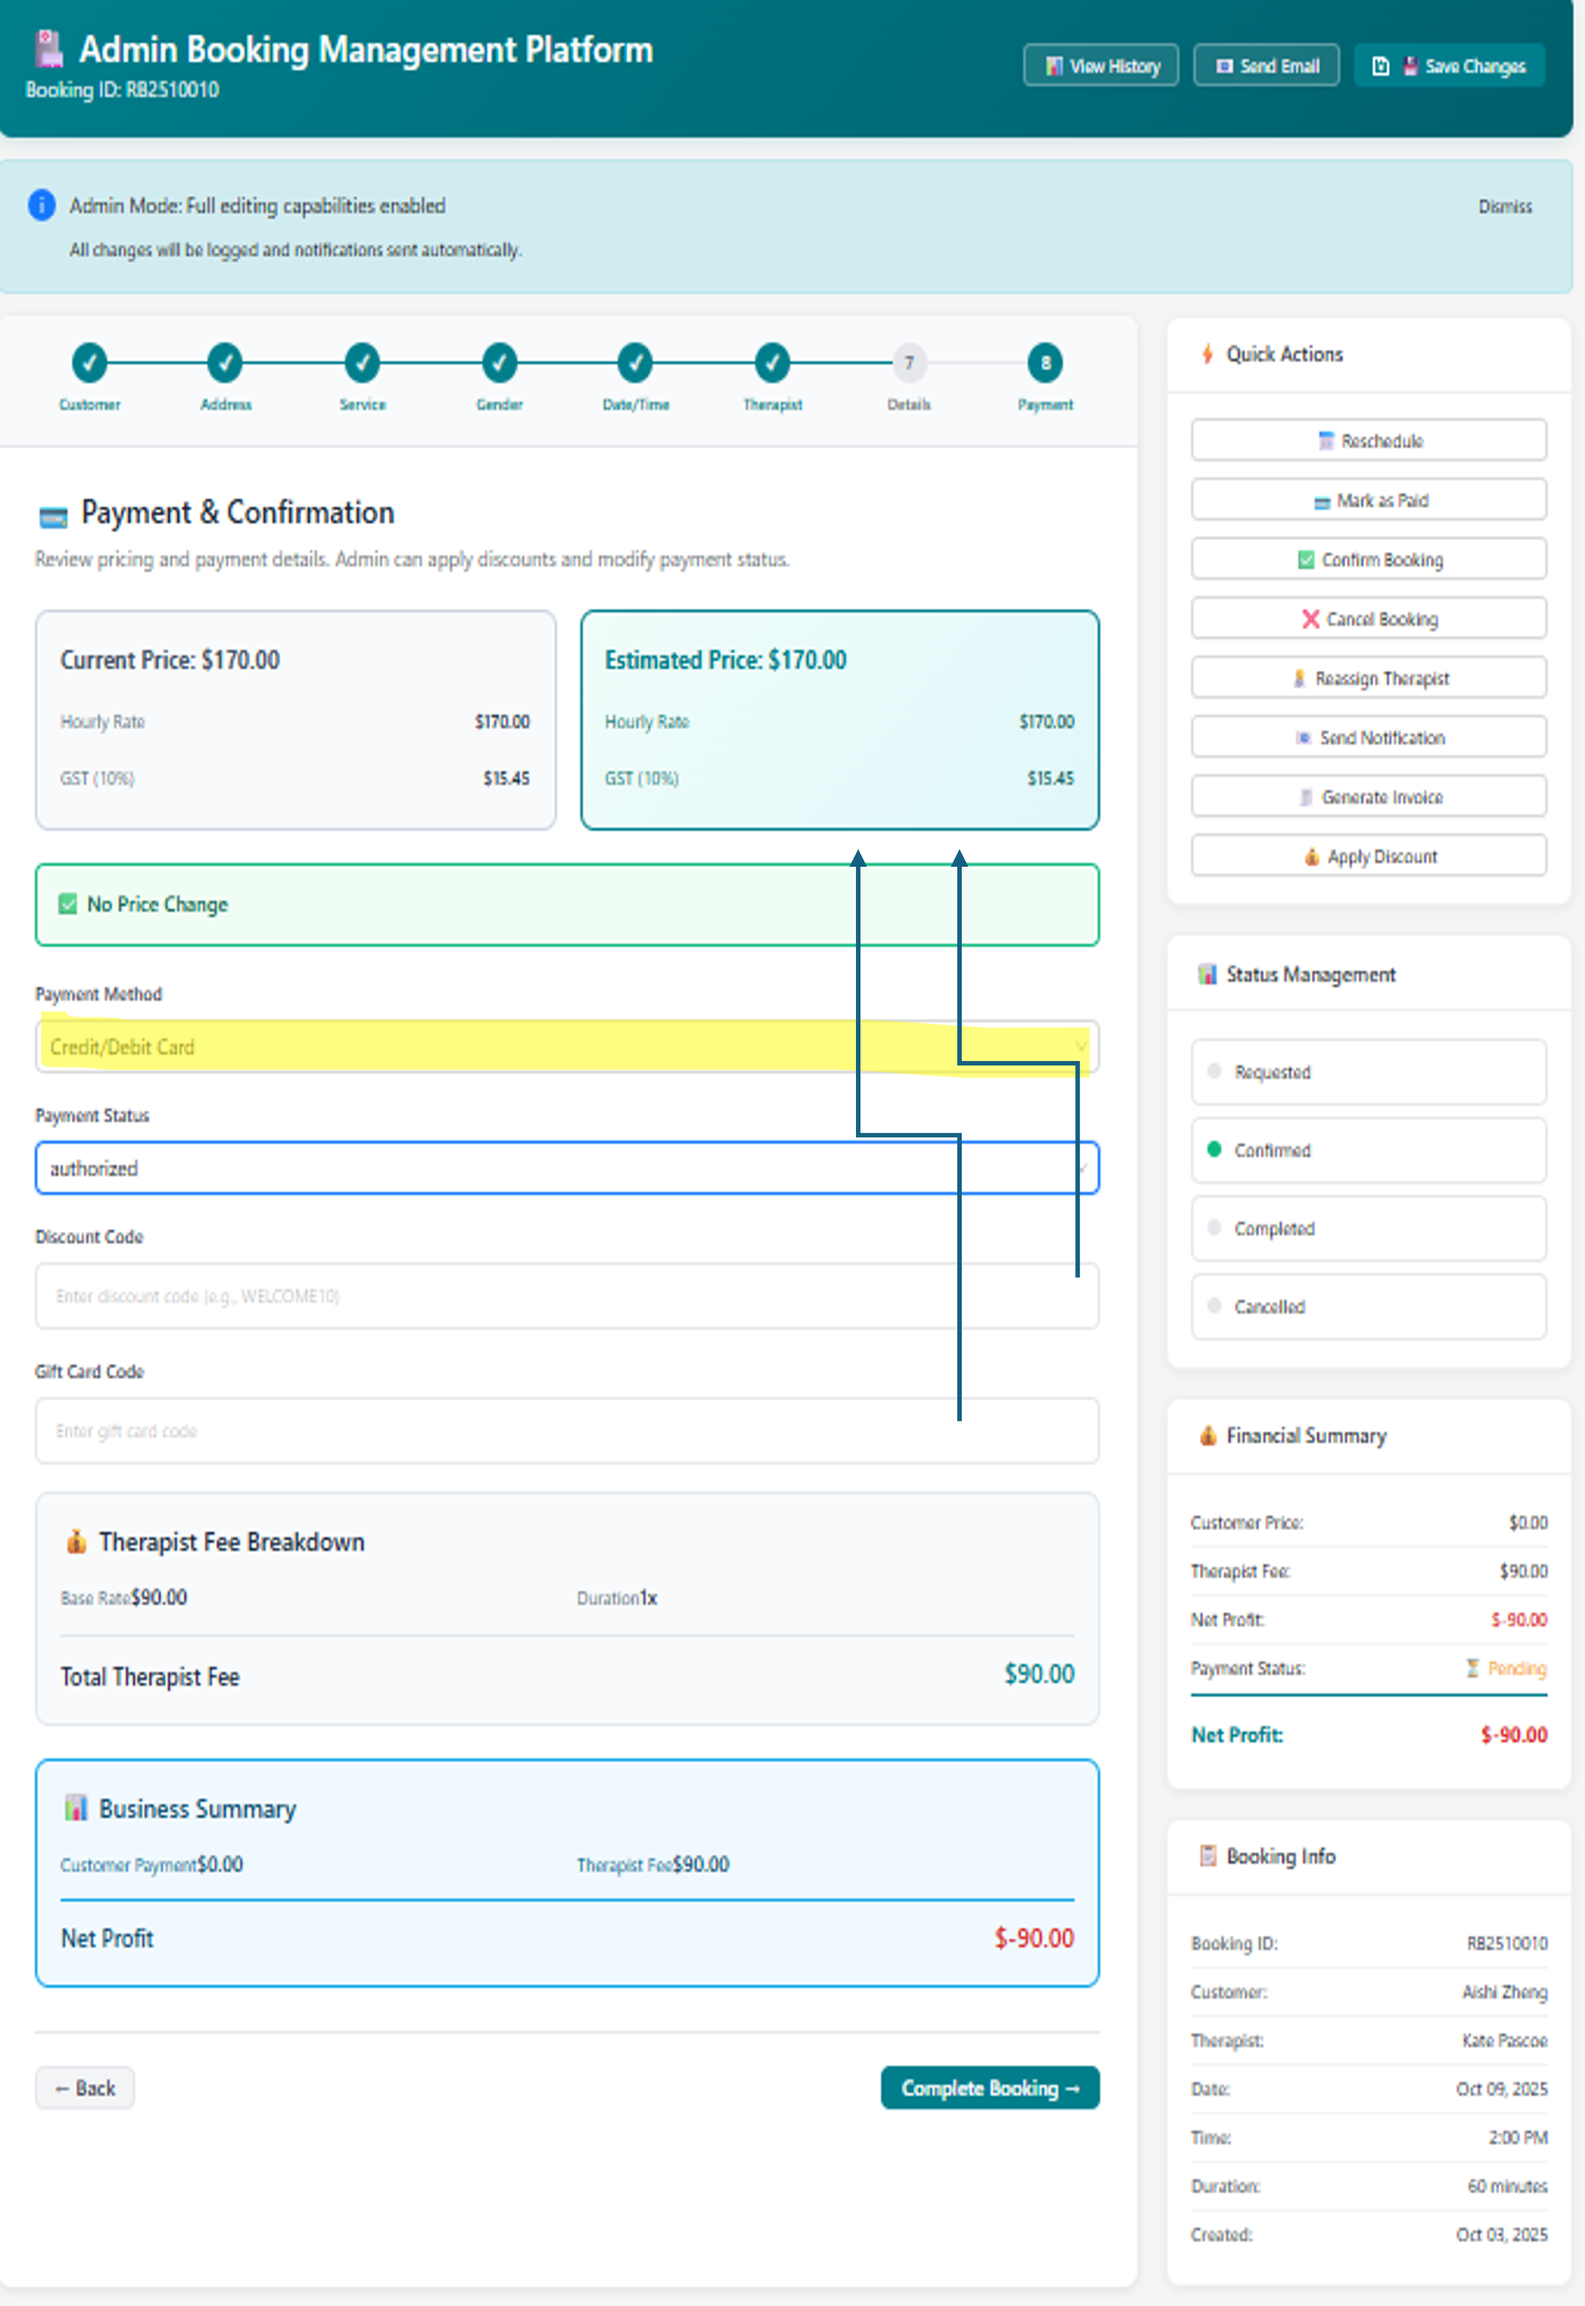
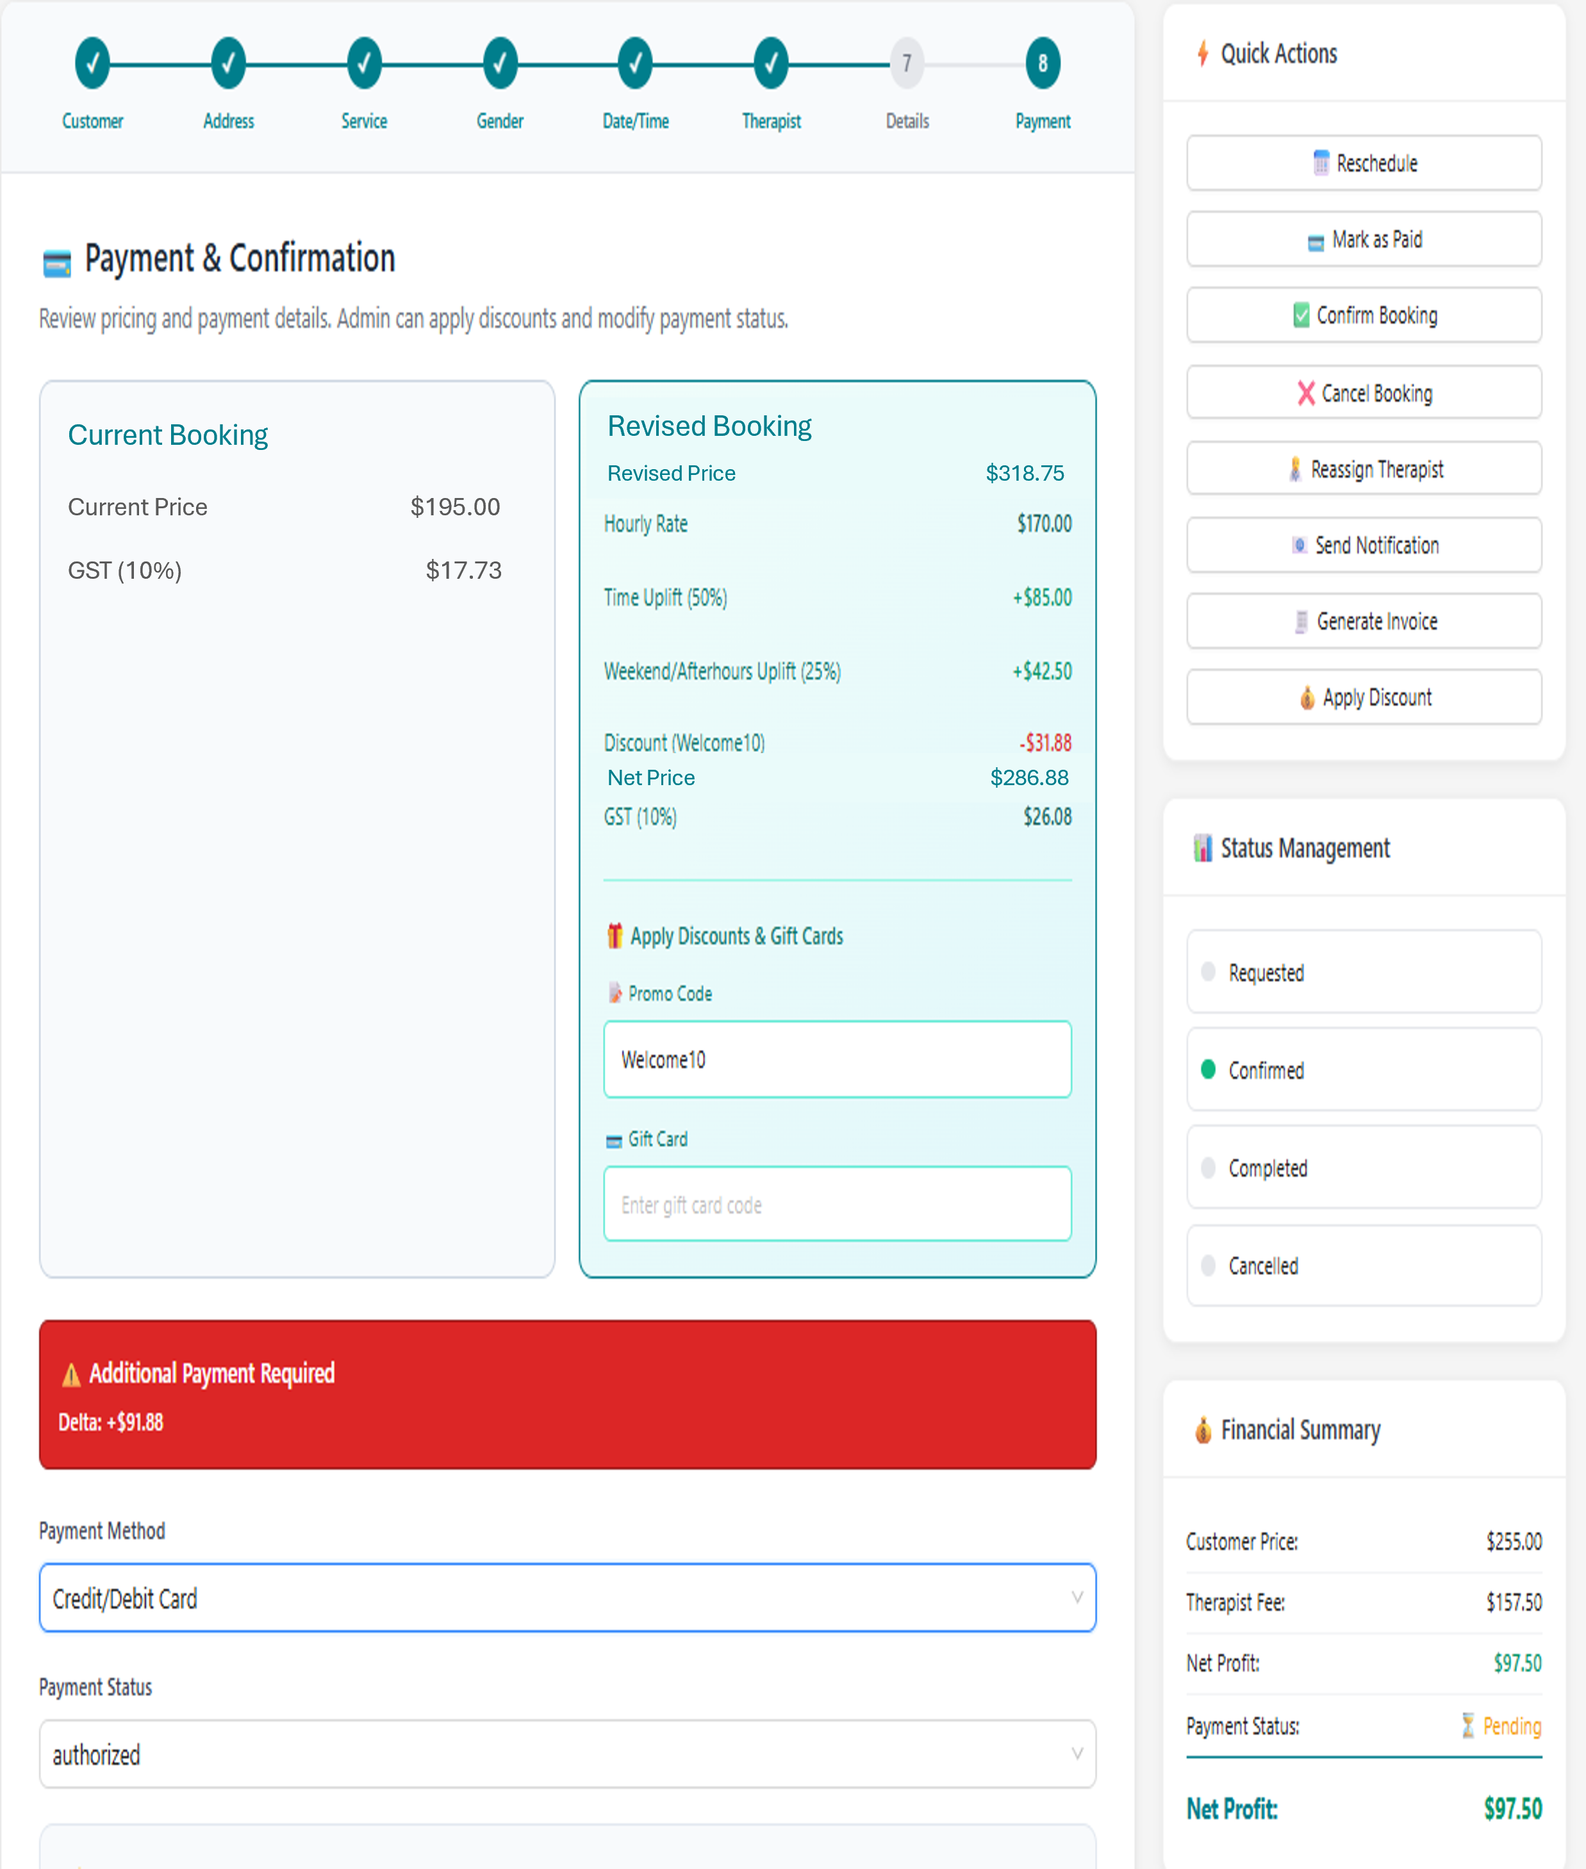
Update pricing layout to match image: add Net Price line, improve styling, add payment_notes field
- Rename panels to 'Current Booking' and 'Revised Booking'
- Add 'Revised Price' header on right side of Revised panel
- Add 'Net Price' line before GST (subtotal before tax)
- Simplify Current panel to show only Current Price and GST
- Update styling: cleaner spacing, better color hierarchy
- Add conditional payment_notes field (shows when status is 'paid' or 'refunded')
- Map payment_notes to bookings.payment_notes DB field

diff --git a/admin/src/pages/bookings/edit-platform.tsx b/admin/src/pages/bookings/edit-platform.tsx
@@ -86,6 +86,7 @@ interface Booking {
   booking_type?: string;
   discount_code?: string;
   gift_card_code?: string;
+  payment_notes?: string;
   
   // Quote-specific fields
   event_type?: string;
@@ -2346,21 +2347,25 @@ export const BookingEditPlatform: React.FC = () => {
                   {/* Current vs Estimated Pricing Panels - Side by Side */}
                   <div style={{ display: 'grid', gridTemplateColumns: '1fr 1fr', gap: '20px', marginBottom: '24px' }}>
                     
-                    {/* Current Price Panel */}
+                    {/* Current Booking Panel */}
                     <div style={{
                       background: '#f8fafc',
                       border: '2px solid #cbd5e1',
                       borderRadius: '12px',
                       padding: '20px'
                     }}>
-                      <div style={{ fontSize: '18px', fontWeight: 700, color: '#475569', marginBottom: '16px' }}>
-                        Current Price: {currentPricing ? `$${currentPricing.finalPrice.toFixed(2)}` : '—'}
+                      <div style={{ fontSize: '16px', fontWeight: 600, color: '#0891b2', marginBottom: '20px' }}>
+                        Current Booking
                       </div>
                       {currentPricing ? (
-                        <div style={{ display: 'grid', gap: '8px' }}>
-                          <div style={{ display: 'flex', justifyContent: 'space-between', padding: '6px 0', fontSize: '14px', color: '#64748b' }}>
+                        <div style={{ display: 'grid', gap: '12px' }}>
+                          <div style={{ display: 'flex', justifyContent: 'space-between', padding: '0', fontSize: '15px', color: '#475569' }}>
+                            <span>Current Price</span>
+                            <span style={{ fontWeight: 700, color: '#1e293b', fontSize: '18px' }}>${currentPricing.finalPrice.toFixed(2)}</span>
+                          </div>
+                          <div style={{ display: 'flex', justifyContent: 'space-between', padding: '0', fontSize: '14px', color: '#64748b' }}>
                             <span>GST (10%)</span>
-                            <span style={{ fontWeight: 600, color: '#1e293b' }}>${currentPricing.gstAmount.toFixed(2)}</span>
+                            <span style={{ fontWeight: 600, color: '#475569' }}>${currentPricing.gstAmount.toFixed(2)}</span>
                           </div>
                         </div>
                       ) : (
@@ -2370,49 +2375,60 @@ export const BookingEditPlatform: React.FC = () => {
                       )}
                     </div>
 
-                    {/* Estimated Price Panel */}
+                    {/* Revised Booking Panel */}
                     <div style={{
                       background: 'linear-gradient(135deg, #f0fdfa 0%, #e0f7fa 100%)',
-                      border: '2px solid #007e8c',
+                      border: '2px solid #0891b2',
                       borderRadius: '12px',
                       padding: '20px'
                     }}>
-                      <div style={{ fontSize: '18px', fontWeight: 700, color: '#007e8c', marginBottom: '16px' }}>
-                        Estimated Price: {estimatedPricing ? `$${estimatedPricing.finalPrice.toFixed(2)}` : '—'}
+                      <div style={{ display: 'flex', justifyContent: 'space-between', alignItems: 'center', marginBottom: '20px' }}>
+                        <div style={{ fontSize: '16px', fontWeight: 600, color: '#0891b2' }}>
+                          Revised Booking
+                        </div>
+                        {estimatedPricing && (
+                          <div style={{ fontSize: '18px', fontWeight: 700, color: '#0891b2' }}>
+                            Revised Price: ${estimatedPricing.finalPrice.toFixed(2)}
+                          </div>
+                        )}
                       </div>
                       {estimatedPricing ? (
-                        <div style={{ display: 'grid', gap: '8px' }}>
-                          <div style={{ display: 'flex', justifyContent: 'space-between', padding: '6px 0', fontSize: '14px', color: '#0f766e' }}>
+                        <div style={{ display: 'grid', gap: '10px' }}>
+                          <div style={{ display: 'flex', justifyContent: 'space-between', padding: '0', fontSize: '14px', color: '#0f766e' }}>
                             <span>Hourly Rate</span>
                             <span style={{ fontWeight: 600, color: '#115e59' }}>${estimatedPricing.basePrice.toFixed(2)}</span>
                           </div>
                           {estimatedPricing.durationUplift > 0 && (
-                            <div style={{ display: 'flex', justifyContent: 'space-between', padding: '6px 0', fontSize: '14px', color: '#0f766e' }}>
+                            <div style={{ display: 'flex', justifyContent: 'space-between', padding: '0', fontSize: '14px', color: '#0f766e' }}>
                               <span>Time Uplift ({estimatedPricing.durationUplift}%)</span>
                               <span style={{ fontWeight: 600, color: '#059669' }}>+${(estimatedPricing.basePrice * (estimatedPricing.durationUplift / 100)).toFixed(2)}</span>
                             </div>
                           )}
                           {estimatedPricing.timeUplift > 0 && (
-                            <div style={{ display: 'flex', justifyContent: 'space-between', padding: '6px 0', fontSize: '14px', color: '#0f766e' }}>
+                            <div style={{ display: 'flex', justifyContent: 'space-between', padding: '0', fontSize: '14px', color: '#0f766e' }}>
                               <span>Weekend/Afterhours Uplift ({estimatedPricing.timeUplift}%)</span>
                               <span style={{ fontWeight: 600, color: '#059669' }}>+${(estimatedPricing.basePrice * (estimatedPricing.timeUplift / 100)).toFixed(2)}</span>
                             </div>
                           )}
                           {estimatedPricing.discountAmount > 0 && (
-                            <div style={{ display: 'flex', justifyContent: 'space-between', padding: '6px 0', fontSize: '14px', color: '#0f766e' }}>
+                            <div style={{ display: 'flex', justifyContent: 'space-between', padding: '0', fontSize: '14px', color: '#0f766e' }}>
                               <span>Discount {booking?.discount_code ? `(${booking.discount_code})` : ''}</span>
                               <span style={{ fontWeight: 600, color: '#dc2626' }}>-${estimatedPricing.discountAmount.toFixed(2)}</span>
                             </div>
                           )}
                           {estimatedPricing.giftCardAmount > 0 && (
-                            <div style={{ display: 'flex', justifyContent: 'space-between', padding: '6px 0', fontSize: '14px', color: '#0f766e' }}>
+                            <div style={{ display: 'flex', justifyContent: 'space-between', padding: '0', fontSize: '14px', color: '#0f766e' }}>
                               <span>Gift Card {booking?.gift_card_code ? `(${booking.gift_card_code})` : ''}</span>
                               <span style={{ fontWeight: 600, color: '#dc2626' }}>-${estimatedPricing.giftCardAmount.toFixed(2)}</span>
                             </div>
                           )}
-                          <div style={{ display: 'flex', justifyContent: 'space-between', padding: '6px 0', fontSize: '14px', color: '#0f766e' }}>
+                          <div style={{ display: 'flex', justifyContent: 'space-between', padding: '0', fontSize: '14px', color: '#0f766e', fontWeight: 600 }}>
+                            <span>Net Price</span>
+                            <span style={{ fontWeight: 700, color: '#0891b2' }}>${(estimatedPricing.finalPrice - (estimatedPricing.finalPrice / 11)).toFixed(2)}</span>
+                          </div>
+                          <div style={{ display: 'flex', justifyContent: 'space-between', padding: '0', fontSize: '14px', color: '#64748b' }}>
                             <span>GST (10%)</span>
-                            <span style={{ fontWeight: 600, color: '#115e59' }}>${(estimatedPricing.finalPrice / 11).toFixed(2)}</span>
+                            <span style={{ fontWeight: 600, color: '#475569' }}>${(estimatedPricing.finalPrice / 11).toFixed(2)}</span>
                           </div>
                         </div>
                       ) : (
@@ -2421,16 +2437,16 @@ export const BookingEditPlatform: React.FC = () => {
                         </div>
                       )}
 
-                      {/* Discount & Gift Card fields under Estimated panel */}
-                      <div style={{ marginTop: '20px', paddingTop: '20px', borderTop: '1px solid #99f6e4' }}>
-                        <Text strong style={{ color: '#0f766e', marginBottom: '12px', display: 'block', fontSize: '14px' }}>🎁 Apply Discounts & Gift Cards</Text>
+                      {/* Discount & Gift Card fields under Revised panel */}
+                      <div style={{ marginTop: '20px', paddingTop: '20px', borderTop: '2px solid #5eead4' }}>
+                        <Text strong style={{ color: '#0891b2', marginBottom: '16px', display: 'block', fontSize: '15px' }}>🎁 Apply Discounts & Gift Cards</Text>
                         
-                        <div style={{ marginBottom: '12px' }}>
-                          <Text style={{ color: '#0f766e', fontSize: '13px', marginBottom: '6px', display: 'block' }}>📝 Promo Code</Text>
+                        <div style={{ marginBottom: '14px' }}>
+                          <Text style={{ color: '#0f766e', fontSize: '13px', marginBottom: '6px', display: 'block', fontWeight: 500 }}>Promo Code</Text>
                           <Input 
                             value={booking?.discount_code || ''}
-                            placeholder="Enter discount code (e.g., WELCOME10)"
-                            style={{ padding: '10px 14px', border: '1px solid #5eead4', borderRadius: '6px' }}
+                            placeholder="Welcome10"
+                            style={{ padding: '10px 14px', border: '2px solid #99f6e4', borderRadius: '6px', fontSize: '14px' }}
                             onChange={(e) => {
                               form.setFieldsValue({ discount_code: e.target.value });
                               setBooking(prev => prev ? { ...prev, discount_code: e.target.value } : null);
@@ -2439,11 +2455,11 @@ export const BookingEditPlatform: React.FC = () => {
                         </div>
 
                         <div>
-                          <Text style={{ color: '#0f766e', fontSize: '13px', marginBottom: '6px', display: 'block' }}>💳 Gift Card</Text>
+                          <Text style={{ color: '#0f766e', fontSize: '13px', marginBottom: '6px', display: 'block', fontWeight: 500 }}>Gift Card</Text>
                           <Input 
                             value={booking?.gift_card_code || ''}
                             placeholder="Enter gift card code"
-                            style={{ padding: '10px 14px', border: '1px solid #5eead4', borderRadius: '6px' }}
+                            style={{ padding: '10px 14px', border: '2px solid #99f6e4', borderRadius: '6px', fontSize: '14px' }}
                             onChange={(e) => {
                               form.setFieldsValue({ gift_card_code: e.target.value });
                               setBooking(prev => prev ? { ...prev, gift_card_code: e.target.value } : null);
@@ -2514,6 +2530,23 @@ export const BookingEditPlatform: React.FC = () => {
                       <Option value="refunded">Refunded</Option>
                     </Select>
                   </div>
+
+                  {/* Payment Notes - Show when payment_status is 'paid' or 'refunded' */}
+                  {(booking.payment_status === 'paid' || booking.payment_status === 'refunded') && (
+                    <div style={{ marginBottom: '20px' }}>
+                      <Text strong style={{ color: '#374151', marginBottom: '8px', display: 'block' }}>Payment Notes</Text>
+                      <Input.TextArea 
+                        value={booking.payment_notes || ''}
+                        placeholder="Enter payment or refund details..."
+                        rows={3}
+                        style={{ padding: '12px 16px', border: '2px solid #e5e7eb', borderRadius: '8px' }}
+                        onChange={(e) => {
+                          form.setFieldsValue({ payment_notes: e.target.value });
+                          setBooking(prev => prev ? { ...prev, payment_notes: e.target.value } : null);
+                        }}
+                      />
+                    </div>
+                  )}
 
 
                   {/* Therapist Fee Breakdown Section */}
